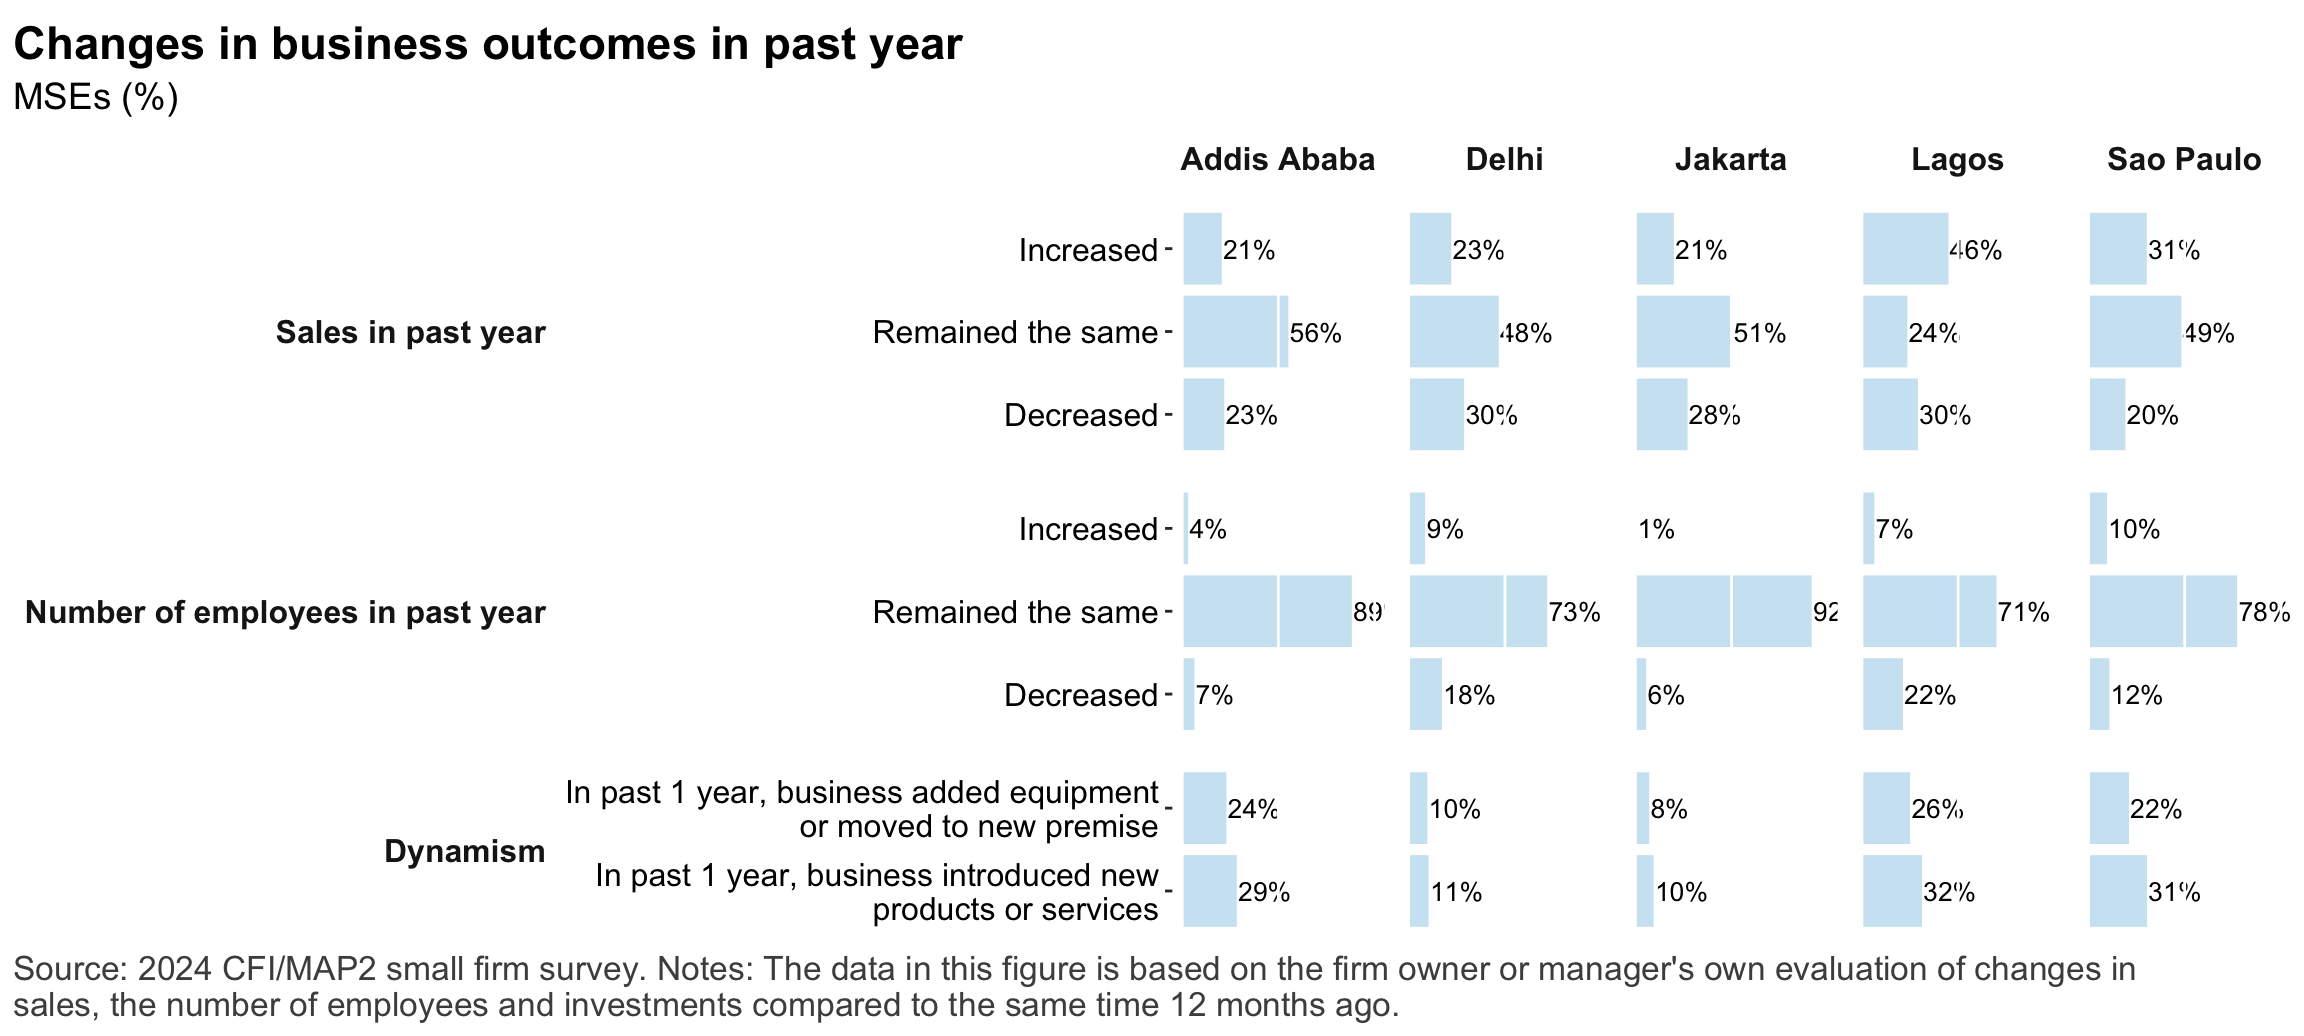
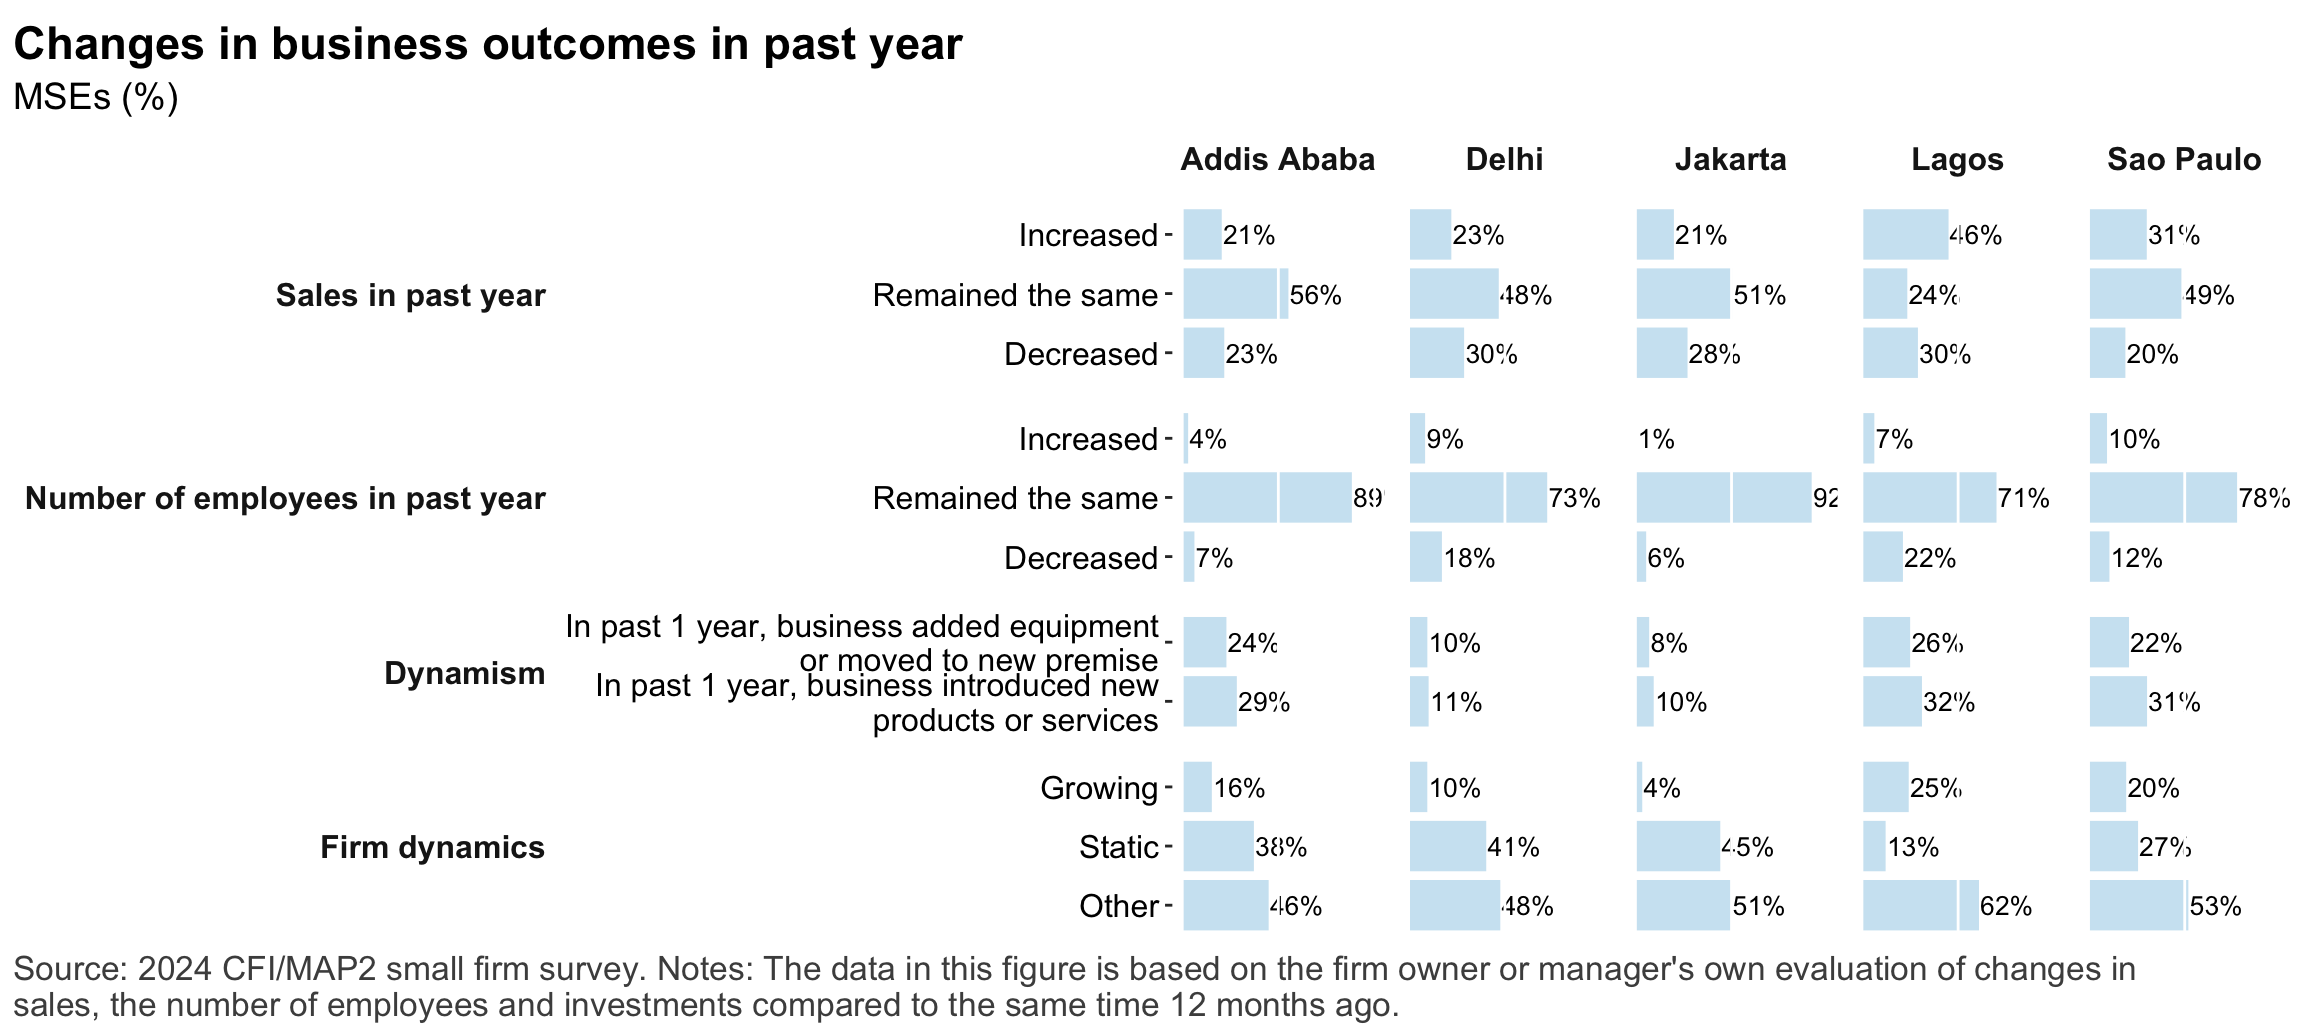
Updating global tab

diff --git a/docs/cfi_map2_global.html b/docs/cfi_map2_global.html
@@ -127,7 +127,8 @@ ul.task-list li input[type="checkbox"] {
     <h2 id="toc-title">On this page</h2>
    
   <ul>
-  <li><a href="#the-business-landscape" id="toc-the-business-landscape" class="nav-link active" data-scroll-target="#the-business-landscape">The business landscape</a></li>
+  <li><a href="#key-findings" id="toc-key-findings" class="nav-link active" data-scroll-target="#key-findings">Key findings</a></li>
+  <li><a href="#the-business-landscape" id="toc-the-business-landscape" class="nav-link" data-scroll-target="#the-business-landscape">The business landscape</a></li>
   <li><a href="#the-small-business-owner" id="toc-the-small-business-owner" class="nav-link" data-scroll-target="#the-small-business-owner">The small business owner</a></li>
   <li><a href="#digital-technology" id="toc-digital-technology" class="nav-link" data-scroll-target="#digital-technology">Digital technology</a></li>
   <li><a href="#financial-services" id="toc-financial-services" class="nav-link" data-scroll-target="#financial-services">Financial services</a></li>
@@ -162,6 +163,22 @@ ul.task-list li input[type="checkbox"] {
 </header>
 
 
+<section id="key-findings" class="level2">
+<h2 class="anchored" data-anchor-id="key-findings">Key findings</h2>
+<ul>
+<li><p>This study found between 400 (Addis) and 1,400 (Delhi) visible businesses establishments per square kilometer in 5 major urban centers (<a href="#fig-nbus_size_and_sector" class="quarto-xref">Figure&nbsp;1</a>).</p></li>
+<li><p>A dominant majority of these visible business establishments are businesses with fewer than 10 workers (Figure 1), though Delhi has a relatively high concentration of larger businesses (40%).</p></li>
+<li><p>These small businesses are concentrated in retail trade and play a key role in urban food production and distribution. In Jakarta, 76 percent of small firms are involved in food distribution or manufacture, whereas in Addis, Delhi and Lagos, the share ranges from 34 to 47 percent, in Sao Paolo production is more diversified and the share of firms in food distribution or manufcature is lower, making up 25 percent. Among the 5 cities, Lagos has the highest share of small businesses in manufacturing (19%).</p></li>
+<li><p>At the median, the productivity per worker among these small firms is lower than the productivity suggested by national averages, but the gap is smallest in Sao Paulo (0.95x) and largest in Jakarta (0.13x) (<a href="#fig-mses_productivity" class="quarto-xref">Figure&nbsp;5</a>)</p></li>
+<li><p>Based on owner’s or manager’s evaluations, the share of small firms can be described as ‘growing’ is as low as 4 percent in Jakarta and as high as 25 percent in Lagos. Firms that can be described as ‘static’, that is, revenues and number of employees that have stayed the same over the past year and that have not made investments in capital or products make up as high as 45% of firms in Jakarta and as low as 13% of firms in Lagos.</p></li>
+<li><p>On average, small business owners are in their 30’s (Addis, Delhi) or in their early 40’s (Sao Paolo, Lagos). The least experienced small firm owners are those in Addis (2.8 years’ experience running the business) and the most experienced are those in Sao Paolo (10 years’ of experience).</p></li>
+<li><p>Nearly 1 in 2 small businesses in Jakarta and Lagos are owner-operated single person businesses, while the share in Addis, Delhi and Sao Paulo is nearer to 1 in 3. The prevalence of single-person businesses correlates strongly with the share of businesses run out of the household and with the share of businesses run by women. Jakarta and Lagos also have the highest share of businesses run out of the household (60 and 53%, respectively) as well as the highest share of businesses run by women (74 and 53%, respectively).</p></li>
+<li><p>Around 3 in 4 business owners in Addis, Delhi and Lagos said they wanted to become and entrepreneur to start a business. In Sao Paolo and Jakarta, the number is around 1 in 2, and more business owners became entrepreneurs due to lack of opportunities or other reasons. Across all study sites, dominant shares of business owners say their main goal is to grow the business over the next 12 months, however in Brazil a relatively larger share of owners (nearly 1 in 3) say their main goal is to either cover business costs or leave the business. Overall, between 1 in 4 and 1 in 3 business owners can be characterized as having a strong ‘entrepreneurial’ mindset with a desire to grow the business and take risks.</p></li>
+<li><p>Controlling for education and years of experience, women are less likely to have an ‘entrepreneurial’ or ‘growth and risk’ oriented mindset than men in Addis and Jakarta. In Addis, this finding is driven by a more cautious attitude to risk among women, while in Jakarta in addition to lower risk tolerance, women are substantially less likely than men to identify as an entrepreneur.</p></li>
+<li><p>This study tracked use of 10 distinct non-financial and financial digital technologies among small businesses. There is wide variation among the study sites in the adoption of these technologies. In Addis, small businesses use 1.6 technologies, whereas in Brazil they use 5, reflecting more widespread adoption of advanced digital solutions such as e-commerce platforms or operations-supporting software and digital loans.</p></li>
+<li><p>Educational attainment of the owner (or manager) is the single strongest predictor of firm-level technology and this finding is consistent across all 5 cities.</p></li>
+</ul>
+</section>
 <section id="the-business-landscape" class="level2 page-columns page-full">
 <h2 class="anchored" data-anchor-id="the-business-landscape">The business landscape</h2>
 <div class="cell page-columns page-full" data-cap-location="margin">
@@ -1211,7 +1228,7 @@ window.document.addEventListener("DOMContentLoaded", function (event) {
 });
 </script>
 </div> <!-- /content -->
-<script>var lightboxQuarto = GLightbox({"selector":".lightbox","closeEffect":"zoom","openEffect":"zoom","descPosition":"bottom","loop":false});
+<script>var lightboxQuarto = GLightbox({"selector":".lightbox","descPosition":"bottom","loop":false,"openEffect":"zoom","closeEffect":"zoom"});
 window.onload = () => {
   lightboxQuarto.on('slide_before_load', (data) => {
     const { slideIndex, slideNode, slideConfig, player, trigger } = data;

diff --git a/cfi_map2_global.html.md b/cfi_map2_global.html.md
@@ -7,6 +7,31 @@ lightbox: true
 
 
 
+## Key findings
+
+
+*	This study found between 400 (Addis) and 1,400 (Delhi) visible businesses establishments per square kilometer in 5 major urban centers (@fig-nbus_size_and_sector). 
+
+*	A dominant majority of these visible business establishments are businesses with fewer than 10 workers (Figure 1), though Delhi has a relatively high concentration of larger businesses (40%). 
+
+*	These small businesses are concentrated in retail trade and play a key role in urban food production and distribution. In Jakarta, 76 percent of small firms are involved in food distribution or manufacture, whereas in Addis, Delhi and Lagos, the share ranges from 34 to 47 percent, in Sao Paolo production is more diversified and the share of firms in food distribution or manufcature is lower, making up 25 percent. Among the 5 cities, Lagos has the highest share of small businesses in manufacturing (19%). 
+
+*	At the median, the productivity per worker among these small firms is lower than the productivity suggested by national averages, but the gap is smallest in Sao Paulo (0.95x) and largest in Jakarta (0.13x) (@fig-mses_productivity)
+
+* Based on owner’s or manager’s evaluations, the share of small firms can be described as ‘growing’ is as low as 4 percent in Jakarta and as high as 25 percent in Lagos. Firms that can be described as ‘static’, that is, revenues and number of employees that have stayed the same over the past year and that have not made investments in capital or products make up as high as 45% of firms in Jakarta and as low as 13% of firms in Lagos. 
+
+*	On average, small business owners are in their 30’s (Addis, Delhi) or in their early 40’s (Sao Paolo, Lagos). The least experienced small firm owners are those in Addis (2.8 years’ experience running the business) and the most experienced are those in Sao Paolo (10 years’ of experience). 
+
+*	Nearly 1 in 2 small businesses in Jakarta and Lagos are owner-operated single person businesses, while the share in Addis, Delhi and Sao Paulo is nearer to 1 in 3. The prevalence of single-person businesses correlates strongly with the share of businesses run out of the household and with the share of businesses run by women. Jakarta and Lagos also have the highest share of businesses run out of the household (60 and 53%, respectively) as well as the highest share of businesses run by women (74 and 53%, respectively). 
+
+*	Around 3 in 4 business owners in Addis, Delhi and Lagos said they wanted to become and entrepreneur to start a business. In Sao Paolo and Jakarta, the number is around 1 in 2, and more business owners became entrepreneurs due to lack of opportunities or other reasons. Across all study sites, dominant shares of business owners say their main goal is to grow the business over the next 12 months, however in Brazil a relatively larger share of owners (nearly 1 in 3) say their main goal is to either cover business costs or leave the business. Overall, between 1 in 4 and 1 in 3 business owners can be characterized as having a strong ‘entrepreneurial’ mindset with a desire to grow the business and take risks. 
+
+*	Controlling for education and years of experience, women are less likely to have an ‘entrepreneurial’ or ‘growth and risk’ oriented mindset than men in Addis and Jakarta. In Addis, this finding is driven by a more cautious attitude to risk among women, while in Jakarta in addition to lower risk tolerance, women are substantially less likely than men to identify as an entrepreneur.  
+
+*	This study tracked use of 10 distinct non-financial and financial digital technologies among small businesses. There is wide variation among the study sites in the adoption of these technologies. In Addis, small businesses use 1.6 technologies, whereas in Brazil they use 5, reflecting more widespread adoption of advanced digital solutions such as e-commerce platforms or operations-supporting software  and digital loans. 
+
+*	Educational attainment of the owner (or manager) is the single strongest predictor of firm-level technology and this finding is consistent across all 5 cities. 
+
 
 ## The business landscape 
 
